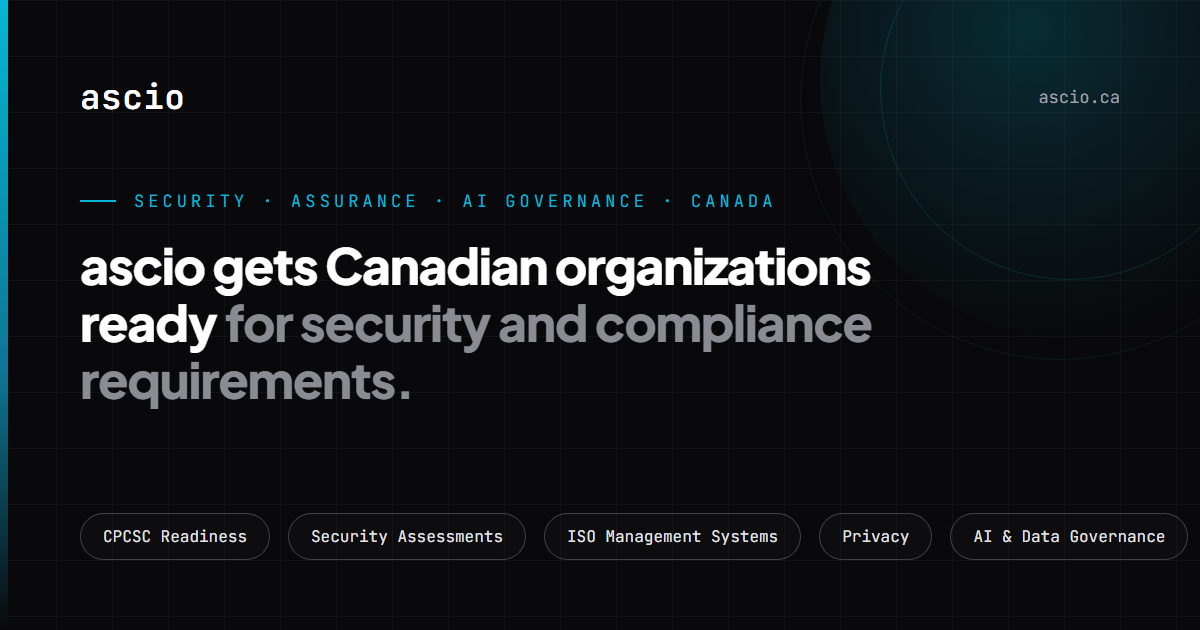
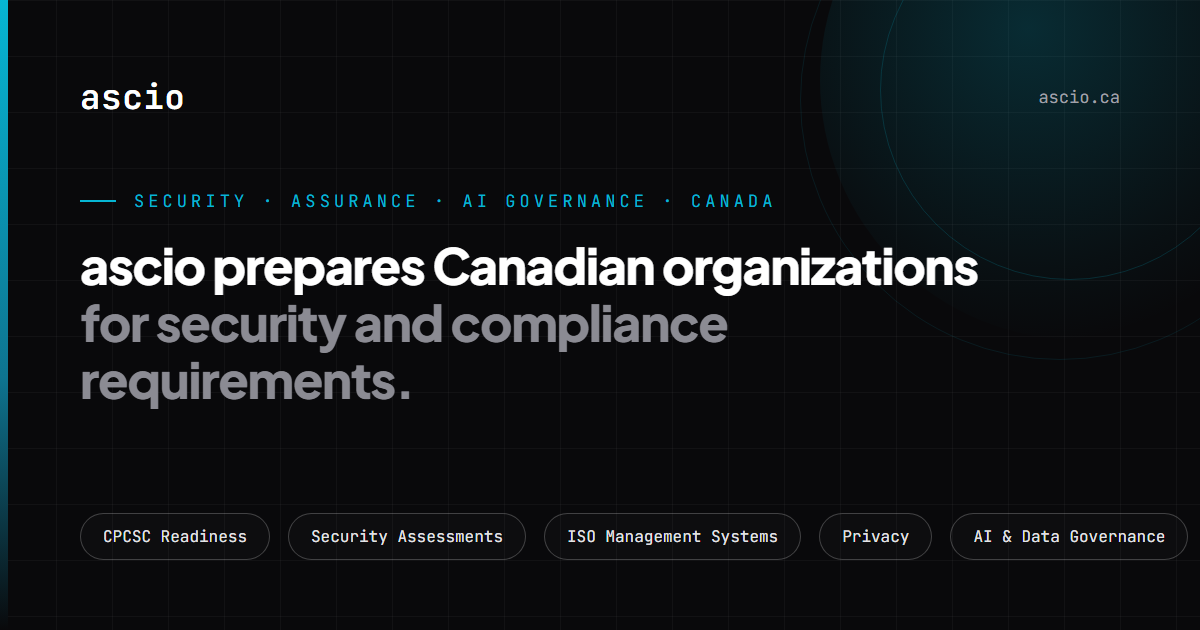
Hero: headline verb

Changed region(s): [[0.0617, 0.3921, 0.8325, 0.573]]

diff --git a/index.html b/index.html
@@ -621,7 +621,7 @@
                 <div class="container">
                     <div class="hero-content">
                         <div class="hero-tag">SECURITY &middot; ASSURANCE &middot; AI GOVERNANCE &middot; CANADA</div>
-                        <h1>ascio gets Canadian organizations ready <span>for security and compliance requirements.</span></h1>
+                        <h1>ascio prepares Canadian organizations <span>for security and compliance requirements.</span></h1>
                         <p class="hero-lede">We work with Canadian organizations that need to meet security, privacy or compliance requirements: CPCSC readiness, customer and buyer security assessments, ISO management systems including ISO/IEC 27001, ISO/IEC 42001 and ISO 9001, privacy, and AI and data governance.<br><br>We build the controls and the evidence. You work with us directly, or use the self guided tools at your own pace.</p>
                         <div class="hero-proof">
                             <div class="hero-proof-line">CPCSC Level 1 applies to select Government of Canada defence contracts from summer 2026</div>
